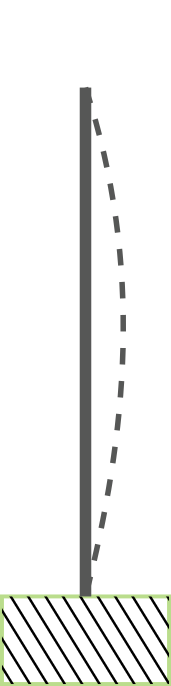
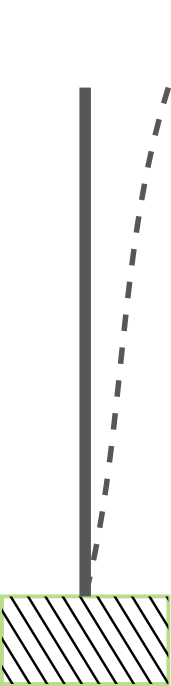
improvement and bugfix

diff --git a/structure.html b/structure.html
@@ -1,7 +1,7 @@
 <!DOCTYPE html>
 <html lang="en">
   <head>
-    <title>Title</title>
+    <title>{Structure}</title>
       <meta charset="UTF-8">
       <link rel="stylesheet" href="css/sidebar.css">
       <link rel="stylesheet" type="text/css" href="css/style.css">
@@ -84,35 +84,35 @@
                 </div>
                 <div id="buckling_beamHeight_div">
                     <label>{Beam height}</label>
-                    <input type="number" id="buckling_beamHeight" value="50" min="0" onchange="computeInertia()"/>mm</br>
+                    <input type="number" id="buckling_beamHeight" value="40" min="0" onchange="computeInertia()"/>mm</br>
                 </div>
                 <div id="buckling_beamWidth_div">
                     <label>{Beam width}</label>
-                    <input type="number" id="buckling_beamWidth" value="50" min="0" onchange="computeInertia()"/>mm</br>
+                    <input type="number" id="buckling_beamWidth" value="20" min="0" onchange="computeInertia()"/>mm</br>
                 </div>
                 <div id="buckling_beamDiam_div">
                     <label>{Beam diam}</label>
-                    <input type="number" id="buckling_beamDiam" value="50" min="0" onchange="computeInertia()"/>mm</br>
+                    <input type="number" id="buckling_beamDiam" value="20" min="0" onchange="computeInertia()"/>mm</br>
                 </div>
                 <div id="buckling_beamThick_div">
                     <label>{Beam thickness}</label>
-                    <input type="number" id="buckling_beamThick" value="50" min="0" onchange="computeInertia()"/>mm</br>
+                    <input type="number" id="buckling_beamThick" value="2" min="0" onchange="computeInertia()"/>mm</br>
                 </div>
                 <label id="buckling_resInertia"></label><label>mm^4</label>
 
-            </div>
+            
                 
                 <div class="item section">
                     <div class="section-title">{Characteristics}</div>
                     <label>{Beam length}</label></br>
-                    <input id="buckling_length" type="number" value="50" min="0" onchange="computeArcB()"/>mm</br>
+                    <input id="buckling_length" type="number" value="500" min="0" onchange="computeArcB()"/>mm</br>
                     <label>{Material}</label></br>
                     <label>{Wikipedia says: Do not choose a steel with a high elastic limit the reduce buckling}</label></br>
                     <select id="buckling_material" onchange="selectYoung(this.value)"></select></br>
                     <label>{Young's Modulus}</label></br>
-                    <input id="buckling_young" type="number" value="50" min="0" onchange="computeArcB()"/>GPa</br>
+                    <input id="buckling_young" type="number" value="210" min="0" onchange="computeArcB()"/>GPa</br>
                     <label>{Load}</label></br>
-                    <input id="buckling_force" type="number" value="50" min="0" onchange="computeArcB()"/>kiloNewtons</br>
+                    <input id="buckling_force" type="number" value="5000" min="0" onchange="computeArcB()"/>kiloNewtons</br>
                 </div>
                 <div class="item section">
                     <div class="section-title">{Mounting}</div>
@@ -136,7 +136,7 @@
                             <label>Coef 1</label>
                         </div>
                         <div class="radio-button" onclick="document.getElementById('buckling_mounting4').click()">
-                            <label>{Pinned} - {Pinned}</label>
+                            <label>{Fixed} - {Fixed}</label>
                             <img src="img/flambage_fixedFixed.png"/>
                             <input type="radio" id="buckling_mounting4" name="bucklingMoutingType" value="0.5">
                             <label>Coef 0.5</label>

diff --git a/js/struct/buckling.js b/js/struct/buckling.js
@@ -6,15 +6,14 @@ function computeBuckling(){
     let width = parseFloat(document.getElementById("buckling_beamWidth").value);
     let height = parseFloat(document.getElementById("buckling_beamHeight").value);
     let diam = parseFloat(document.getElementById("buckling_beamDiam").value);
-
-    let mounting = getRadio('buckling_mounting')
-
+    
+    let mounting = parseFloat(getRadio('bucklingMoutingType'))
     let inertia = computeInertia()
 
     //units !!! in newton
-    let eulerCriticalLoad = (Math.PI^2 * young*1000 * inertia)/len^2
-
-    document.getElementById('buckling_eulerCritical').innerHTML = eulerCriticalLoad
+    let eulerCriticalLoad = (Math.PI*Math.PI * young*1000 * inertia)/(Math.pow(len*mounting,2))
+    console.log(young, inertia,len,mounting)
+    document.getElementById('buckling_eulerCritical').innerHTML = roundDec(eulerCriticalLoad,2)
 }
 
 function selectYoung(val){
@@ -78,24 +77,26 @@ function computeInertia(){
     let diam = parseFloat(document.getElementById("buckling_beamDiam").value);
 
     let beamType = getRadio("bucklingSection")
-    console.log(beamType)
+    console.log(beamType, thickness,width,height,diam)
+
+
     let inertia = 0
 
     if(beamType == "circ") {
-        inertia = (Math.PI*diam^4)/64
+        inertia = (Math.PI*Math.pow(diam,4))/64
     }
-    if(beamType == "circ_pipe") {
-        inertia = (Math.PI*diam^4)/64 - (Math.PI*(diam-thickness*2)^4)/64
+    else if(beamType == "circ_pipe") {
+        inertia = (Math.PI*Math.pow(diam,4))/64 - (Math.PI*Math.pow((diam-thickness*2),4))/64
     }
-    if(beamType == "rect") {
-        inertia = (width*height^3)/12
+    else if(beamType == "rect") {
+        inertia = (width*Math.pow(height,3))/12
     }
-    if(beamType == "rect_pipe") {
-        inertia = (width*height^3)/12-inertia - ((width-thickness*2)*(height-thickness*2)^3)/12
+    else if(beamType == "rect_pipe") {
+        inertia = (width*Math.pow(height,3))/12-inertia - ((width-thickness*2)*Math.pow((height-thickness*2),3))/12
     }
 
-    document.getElementById('buckling_resInertia').innerHTML = roundDec(inertia)
-    document.getElementById('buckling_resInertia2').innerHTML = roundDec(inertia)
+    document.getElementById('buckling_resInertia').innerHTML = roundDec(inertia,2)
+    document.getElementById('buckling_resInertia2').innerHTML = roundDec(inertia,2)
     return inertia
 }
 
